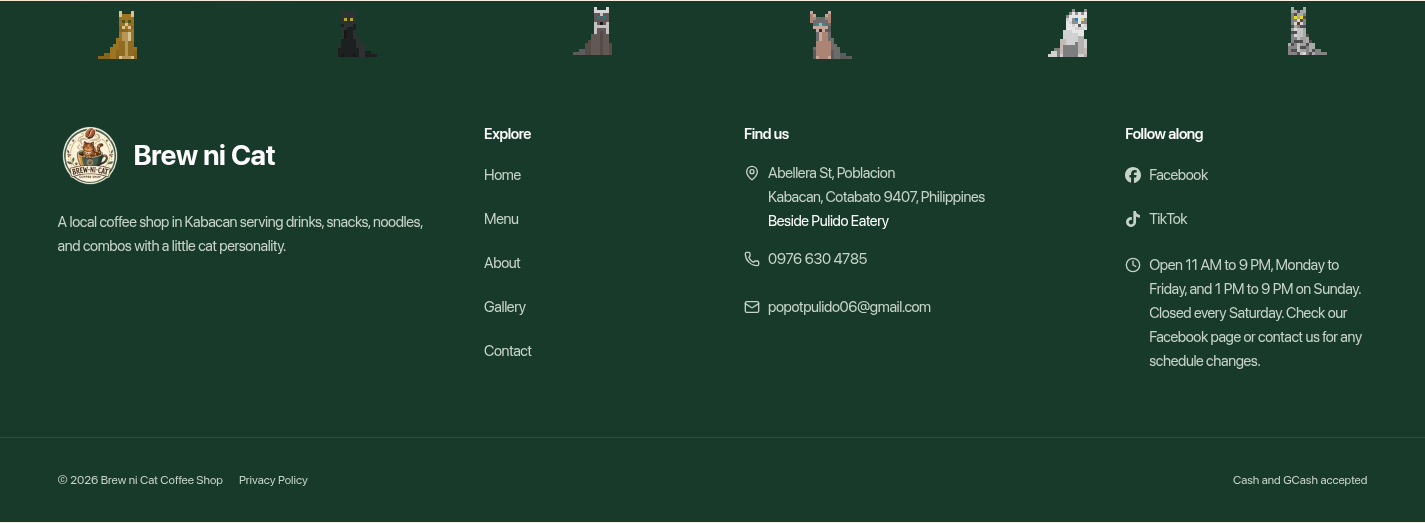
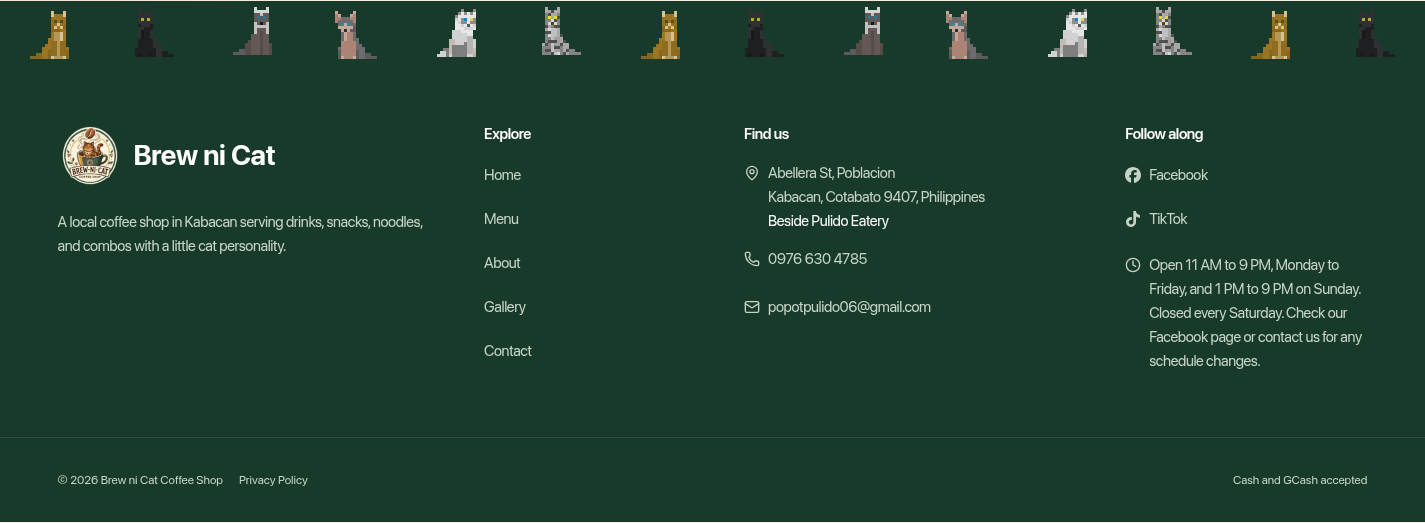
feat(cats): more cats, 4 on a phone and 14 on a desktop (FR-099)

diff --git a/src/components/cats/cat-strip.tsx b/src/components/cats/cat-strip.tsx
@@ -9,6 +9,7 @@ import {
   type CatAction,
   catCount,
   catSheetUrl,
+  MAX_CATS,
   nextRest,
   nextTarget,
   PIXEL_CATS,
@@ -70,8 +71,8 @@ export function CatStrip() {
     const count = catCount(width());
     const cats: Cat[] = nodes.map((node, index) => ({
       node,
-      id: PIXEL_CATS[index]!.id,
-      canItch: PIXEL_CATS[index]!.canItch,
+      id: PIXEL_CATS[index % PIXEL_CATS.length]!.id,
+      canItch: PIXEL_CATS[index % PIXEL_CATS.length]!.canItch,
       x: 0,
       dir: 1,
       action: "sitting",
@@ -178,20 +179,23 @@ export function CatStrip() {
       data-testid="cat-strip"
       aria-hidden="true"
     >
-      {PIXEL_CATS.map((cat, index) => (
-        <div
-          key={cat.id}
-          className="pixel-cat"
-          data-cat={cat.id}
-          data-action="sitting"
-          style={{
-            left: `${((index + 0.5) / PIXEL_CATS.length) * 100}%`,
-            backgroundImage: `url(${catSheetUrl(cat.id, "sitting")})`,
-            zIndex: (index * 3) % PIXEL_CATS.length,
-            bottom: `calc(var(--cat-size) * -0.36 + ${(index % 3) * 2}px)`,
-          }}
-        />
-      ))}
+      {Array.from({ length: MAX_CATS }, (_, index) => {
+        const cat = PIXEL_CATS[index % PIXEL_CATS.length]!;
+        return (
+          <div
+            key={index}
+            className="pixel-cat"
+            data-cat={cat.id}
+            data-action="sitting"
+            style={{
+              left: `${((index + 0.5) / MAX_CATS) * 100}%`,
+              backgroundImage: `url(${catSheetUrl(cat.id, "sitting")})`,
+              zIndex: (index * 7) % MAX_CATS,
+              bottom: `calc(var(--cat-size) * -0.36 + ${(index % 3) * 2}px)`,
+            }}
+          />
+        );
+      })}
     </div>
   );
 }

diff --git a/tests/e2e/cats.spec.ts b/tests/e2e/cats.spec.ts
@@ -52,7 +52,7 @@ for (const size of [
     // Update 2026-11-10: the pixel cats (CC0 "Pet Cats Pack") wander on
     // their own; within a few seconds at least one has moved or changed
     // what it is doing. Their frames are a CSS animation in real time.
-    const count = size.name === "phone" ? 3 : 6;
+    const count = size.name === "phone" ? 4 : 14;
     const cats = strip.locator(".pixel-cat:not([hidden])");
     await expect(cats).toHaveCount(count);
     const sheet = await page.request.get("/cats/cat-1/walk.png");
@@ -100,7 +100,7 @@ test("TC-P9-006 — with reduced motion the cats sit still", async ({ page }) =>
   const strip = page.getByTestId("cat-strip");
   await strip.scrollIntoViewIfNeeded();
   const cats = strip.locator(".pixel-cat:not([hidden])");
-  await expect(cats).toHaveCount(6);
+  await expect(cats).toHaveCount(14);
   const state = () =>
     cats.evaluateAll((nodes) =>
       nodes

diff --git a/tests/unit/cat-characters.test.tsx b/tests/unit/cat-characters.test.tsx
@@ -59,10 +59,11 @@ afterEach(() => {
 describe("cat characters (FR-099)", () => {
   // Update 2026-11-10: the drawn poster cats were replaced by the six pixel
   // cats of the CC0 "Pet Cats Pack"; this case now covers their behavior.
-  it("TC-P9-001 six pixel cats, 3 on a phone and 6 on a desktop, rest in turn and nap after lying down", () => {
+  it("TC-P9-001 six pixel cat coats, 4 cats on a phone and 14 on a desktop, rest in turn and nap after lying down", () => {
     expect(PIXEL_CATS).toHaveLength(6);
-    expect(catCount(390)).toBe(3);
-    expect(catCount(1440)).toBe(6);
+    expect(catCount(390)).toBe(4);
+    expect(catCount(1440)).toBe(14);
+    expect(catCount(4000)).toBe(16);
     expect(catSheetUrl("cat-2", "walk")).toBe("/cats/cat-2/walk.png");
     expect(CAT_SHEETS.walk.frames).toBe(8);
     for (let i = 0; i < 20; i += 1) {

diff --git a/src/lib/cats/cats.ts b/src/lib/cats/cats.ts
@@ -47,9 +47,12 @@ export function catSheetUrl(id: string, action: CatAction): string {
 
 const clamp01 = (r: number) => Math.min(Math.max(r, 0), 0.999_999);
 
-/** One cat for about every 200 pixels of width: 3 on a phone, 6 on a desktop. */
+/** The most cats in the strip at once; the six coats repeat. */
+export const MAX_CATS = 16;
+
+/** One cat for about every 100 pixels of width: 4 on a phone, 14 on a desktop. */
 export function catCount(width: number): number {
-  return Math.min(PIXEL_CATS.length, Math.max(3, Math.round(width / 200)));
+  return Math.min(MAX_CATS, Math.max(4, Math.round(width / 100)));
 }
 
 export type CatRest = Readonly<{ action: CatAction; ms: number }>;

diff --git a/docs/functional-requirements.md b/docs/functional-requirements.md
@@ -225,7 +225,7 @@ FR-100 to FR-110 were added after FR-099 and extend §9 (FR-058 to FR-064). On 2
 | Existing POS contract/source of truth | FR-071–FR-081 | Phase 2 inspected catalog source structures only; full synchronization contract, mutation authority, and Phase 6 approval remain pending. |
 | Daily cash count at closing | FR-097 | **TODO: Confirm with Brew ni Cat owner.** Whether staff count the drawer at every closing, and who may correct a saved count. Superseded on 2026-11-05: FR-097 is not planned, so these questions no longer need an answer. |
 | Ratings and reviews | FR-098 | The owner asked for ratings and reviews on the website on 2026-10-30. **TODO: Confirm with Brew ni Cat owner.** Still to confirm: reviews of the whole shop or of each item; whether only signed-in customers may post; whether the owner approves a review before it shows; and whether the owner can reply. |
-| Cat characters | FR-099 | The owner asked for cat characters on the website on 2026-10-30. He will take photos of the shop's cats, and they will be edited into cutouts. Waiting on the photos. **TODO: Confirm with Brew ni Cat owner.** Which pages show them. Update 2026-11-10: built from the shop poster (Kasper, Latte, Luna, Kulas) as drawn cats with a walk cycle, in an empty strip at the top of the footer on every page. Update 2026-11-10: the drawn cats did not look real enough, so they were replaced by the six pixel cats of the CC0 "Pet Cats Pack" (`public/cats`, license in `public/cats/LICENSE.txt`). Three to six cats wander the same footer strip: they walk or run, then sit, wash, meow, stretch, scratch or lie down for a nap. With reduced motion they sit still. |
+| Cat characters | FR-099 | The owner asked for cat characters on the website on 2026-10-30. He will take photos of the shop's cats, and they will be edited into cutouts. Waiting on the photos. **TODO: Confirm with Brew ni Cat owner.** Which pages show them. Update 2026-11-10: built from the shop poster (Kasper, Latte, Luna, Kulas) as drawn cats with a walk cycle, in an empty strip at the top of the footer on every page. Update 2026-11-10: the drawn cats did not look real enough, so they were replaced by the six pixel cats of the CC0 "Pet Cats Pack" (`public/cats`, license in `public/cats/LICENSE.txt`). Four to sixteen cats (the six coats repeat) wander the same footer strip: they walk or run, then sit, wash, meow, stretch, scratch or lie down for a nap. With reduced motion they sit still. |
 | Messenger ordering rules | FR-100–FR-110 | **TODO: Confirm with Brew ni Cat owner.** The team built ordering and order status inside Messenger on 2026-11-10 (ADR-029). Still to decide: whether the assistant should refuse or only warn about orders outside the shop hours, and a switch for closure days; whether a status change should be pushed to the chat by itself (Meta limits this to 24 hours after the customer's last message); and whether Messenger orders should move to a table of their own, which needs a POS update. |
 
 ## 13. Traceability rule

diff --git a/docs/test-cases.md b/docs/test-cases.md
@@ -1197,11 +1197,11 @@ Update 2026-11-10: the drawn poster cats were replaced by the six pixel cats of 
 
 | ID | Requirement | Area | Updated check | Expected result |
 |---|---|---|---|---|
-| TC-P9-001 | FR-099 | `src/lib/cats/cats.ts` | `catCount`, `nextRest`, `afterRest`, `nextTarget` | 3 cats at 390 px and 6 at 1440 px; cat 3 never scratches; a cat that lies down goes to sleep; every walk goes at least two cat sizes and stays in the strip |
+| TC-P9-001 | FR-099 | `src/lib/cats/cats.ts` | `catCount`, `nextRest`, `afterRest`, `nextTarget` | 4 cats at 390 px and 14 at 1440 px (up to 16; the six coats repeat); cat 3 never scratches; a cat that lies down goes to sleep; every walk goes at least two cat sizes and stays in the strip |
 | TC-P9-002 | FR-099, NFR-035 | `CatStrip` | Render with reduced motion off and step animation frames by hand | The strip is aria-hidden, and after the frames at least one cat has moved or changed what it does |
 | TC-P9-003 | FR-099 | `CatStrip` | `document.hidden` true, step 30 frames | No cat moves or changes |
 | TC-P9-004 | FR-099, NFR-032 | `CatStrip` | `prefers-reduced-motion: reduce` | Every shown cat sits, and no animation frame is requested |
-| TC-P9-005 | FR-099 | Footer strip (Playwright, 390 and 1440 wide) | `/about`, reduced motion off | 3 or 6 cats; the sprite sheet loads (200); a cat moves within 15 seconds; no link, button or text overlaps the strip; evidence `pixel-cats-{phone-390,desktop-1440}.png` |
-| TC-P9-006 | FR-099, NFR-032 | Footer strip (Playwright) | `/about`, reduced motion on, 1440 wide | 6 cats, none walking, and nothing changes in 3 seconds; evidence `pixel-cats-sitting-reduced-motion-1440.png` |
+| TC-P9-005 | FR-099 | Footer strip (Playwright, 390 and 1440 wide) | `/about`, reduced motion off | 4 or 14 cats; the sprite sheet loads (200); a cat moves within 15 seconds; no link, button or text overlaps the strip; evidence `pixel-cats-{phone-390,desktop-1440}.png` |
+| TC-P9-006 | FR-099, NFR-032 | Footer strip (Playwright) | `/about`, reduced motion on, 1440 wide | 14 cats, none walking, and nothing changes in 3 seconds; evidence `pixel-cats-sitting-reduced-motion-1440.png` |
 
 The first screenshots of the drawn cats stay in `docs/evidence/phase-9/cat-characters/` as the record of the first version.

diff --git a/docs/development-log.md b/docs/development-log.md
@@ -1675,7 +1675,7 @@ This log records completed work and observed evidence. Planned work is explicitl
 
 - **Phase:** Phase 9.
 - **Task:** The drawn cats did not look real enough, and we wanted many cats, like the walking pets in VS Code Pets.
-- **Summary:** The footer strip now has the six pixel cats of the CC0 "Pet Cats Pack". Three cats show on a phone and six on a desktop. Each one walks or runs somewhere, then sits, washes, meows, stretches, scratches, or lies down and sleeps, and walks on. The frames are a CSS sprite animation; one animation-frame loop moves the cats, and it stops while the tab is hidden or the strip is off screen. With reduced motion the cats sit still. The VS Code Pets art and two other downloaded packs were left out: their licenses don't let us put them in a public repo.
+- **Summary:** The footer strip now has the six pixel cats of the CC0 "Pet Cats Pack". Four cats show on a phone and fourteen on a desktop (up to 16; the six coats repeat). Each one walks or runs somewhere, then sits, washes, meows, stretches, scratches, or lies down and sleeps, and walks on. The frames are a CSS sprite animation; one animation-frame loop moves the cats, and it stops while the tab is hidden or the strip is off screen. With reduced motion the cats sit still. The VS Code Pets art and two other downloaded packs were left out: their licenses don't let us put them in a public repo.
 - **Files:** `public/cats/**` (sprites and `LICENSE.txt`), `src/lib/cats/cats.ts`, `src/components/cats/cat-strip.tsx` (the SVG `cat-figure.tsx` is removed), `src/app/globals.css`, `tests/unit/cat-characters.test.tsx`, `tests/e2e/cats.spec.ts`, docs.
 - **Testing:** the full Vitest suite and Playwright `cats.spec.ts` (3 passed); see the PR.
 - **Branch / PR:** `feat/cat-characters`.
